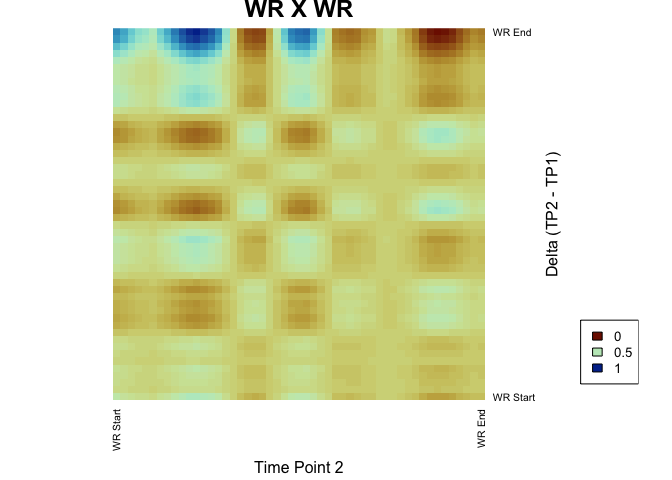
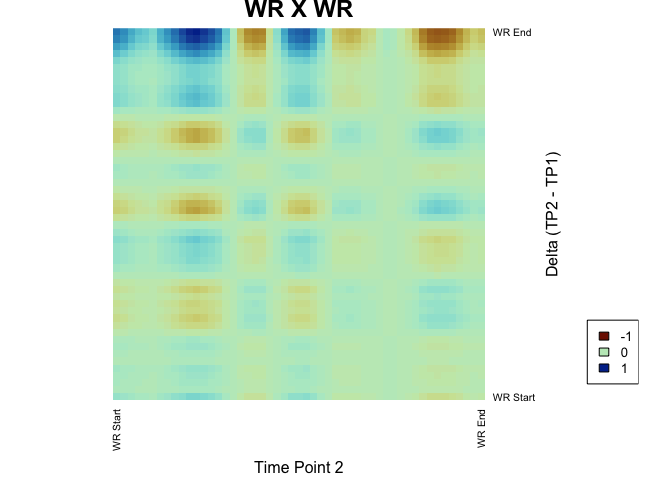
fixed scaling

diff --git a/vignettes/WALLI.md b/vignettes/WALLI.md
@@ -349,18 +349,20 @@ cvec[102] = "WR End"
 rownames(Betahat) = rvec
 colnames(Betahat) = cvec
 
-normalize_matrix = function(mat){
-  (mat - min(mat))/(max(mat) - min(mat))
-}
+# normalize_matrix = function(mat, target_min = -1, target_max = 1) {
+#   max_abs_value <- max(abs(mat))
+#   normalized_mat <- mat / max_abs_value * target_max
+#   return(normalized_vec)
+# }
 
 # plotly::plot_ly(z = Betahat[1:52, 1:51],
 #                 type = "heatmap",
 #                 zmin = min(Betahat),
 #                 zmax = max(Betahat))
 
-brk = seq(0, 1, length.out = 101)
+brk = seq(-1, 1, length.out = 101)
 
-heatmap(normalize_matrix(Betahat[1:52, 1:51]),
+heatmap(scales::rescale_mid(Betahat[1:52, 1:51], to = c(-1, 1), mid = 0),
         Rowv = NA, Colv = NA,
         scale = "none",
         ylab = "Delta (TP2 - TP1)",
@@ -369,7 +371,7 @@ heatmap(normalize_matrix(Betahat[1:52, 1:51]),
         breaks = brk,
         col = scico::scico(n = 100, palette = "roma"))
 
-heatmap(normalize_matrix(Betahat[1:52, 52:102]), 
+heatmap(scales::rescale_mid(Betahat[1:52, 52:102], to = c(-1, 1), mid = 0),
         Rowv = NA, Colv = NA,
         scale = "none",
         ylab = "Delta (TP2 - TP1)",
@@ -378,7 +380,7 @@ heatmap(normalize_matrix(Betahat[1:52, 52:102]),
         breaks = brk,
         col = scico::scico(n = 100, palette = "roma"))
 
-heatmap(normalize_matrix(normBetahat[53:104, 1:51]), 
+heatmap(scales::rescale_mid(Betahat[53:104, 1:51], to = c(-1, 1), mid = 0),
         Rowv = NA, Colv = NA,
         scale = "none",
         ylab = "Delta (TP2 - TP1)",
@@ -387,7 +389,7 @@ heatmap(normalize_matrix(normBetahat[53:104, 1:51]),
         breaks = brk,
         col = scico::scico(n = 100, palette = "roma"))
 
-heatmap(normalize_matrix(normBetahat[53:104, 52:102]), 
+heatmap(scales::rescale_mid(Betahat[53:104, 52:102], to = c(-1, 1), mid = 0),
         Rowv = NA, Colv = NA,
         scale = "none",
         ylab = "Delta (TP2 - TP1)",
@@ -396,7 +398,7 @@ heatmap(normalize_matrix(normBetahat[53:104, 52:102]),
         breaks = brk,
         col = scico::scico(n = 100, palette = "roma"))
 legend(x="right", 
-       legend= c("0", "0.5", "1"), 
+       legend= c("-1", "0", "1"), 
        fill= scico::scico(n = 3, palette = "roma"))
 ```
 
@@ -455,7 +457,7 @@ colnames(Betahat) = cvec
 
 par(mfrow = c(2, 2))
 
-heatmap(normalize_matrix(Betahat[1:52, 1:51]),
+heatmap(scales::rescale_mid(Betahat[1:52, 1:51], to = c(-1, 1), mid = 0),
         Rowv = NA, Colv = NA,
         scale = "none",
         ylab = "Delta (TP2 - TP1)",
@@ -464,7 +466,7 @@ heatmap(normalize_matrix(Betahat[1:52, 1:51]),
         breaks = brk,
         col = scico::scico(n = 100, palette = "roma"))
 
-heatmap(normalize_matrix(Betahat[1:52, 52:102]),
+heatmap(scales::rescale_mid(Betahat[1:52, 52:102], to = c(-1, 1), mid = 0),
         Rowv = NA, Colv = NA,
         scale = "none",
         ylab = "Delta (TP2 - TP1)",
@@ -473,7 +475,7 @@ heatmap(normalize_matrix(Betahat[1:52, 52:102]),
         breaks = brk,
         col = scico::scico(n = 100, palette = "roma"))
 
-heatmap(normalize_matrix(Betahat[53:104, 1:51]),
+heatmap(scales::rescale_mid(Betahat[53:104, 1:51], to = c(-1, 1), mid = 0),
         Rowv = NA, Colv = NA,
         scale = "none",
         ylab = "Delta (TP2 - TP1)",
@@ -482,7 +484,7 @@ heatmap(normalize_matrix(Betahat[53:104, 1:51]),
         breaks = brk,
         col = scico::scico(n = 100, palette = "roma"))
 
-heatmap(normalize_matrix(Betahat[53:104, 52:102]),
+heatmap(scales::rescale_mid(Betahat[53:104, 52:102], to = c(-1, 1), mid = 0), 
         Rowv = NA, Colv = NA,
         scale = "none",
         ylab = "Delta (TP2 - TP1)",
@@ -492,7 +494,7 @@ heatmap(normalize_matrix(Betahat[53:104, 52:102]),
         col = scico::scico(n = 100, palette = "roma"))
 
 legend(x="right",
-       legend= c("0", "0.5", "1"),
+       legend= c("-1", "0", "1"),
        fill= scico::scico(n = 3, palette = "roma"))
 ```
 
